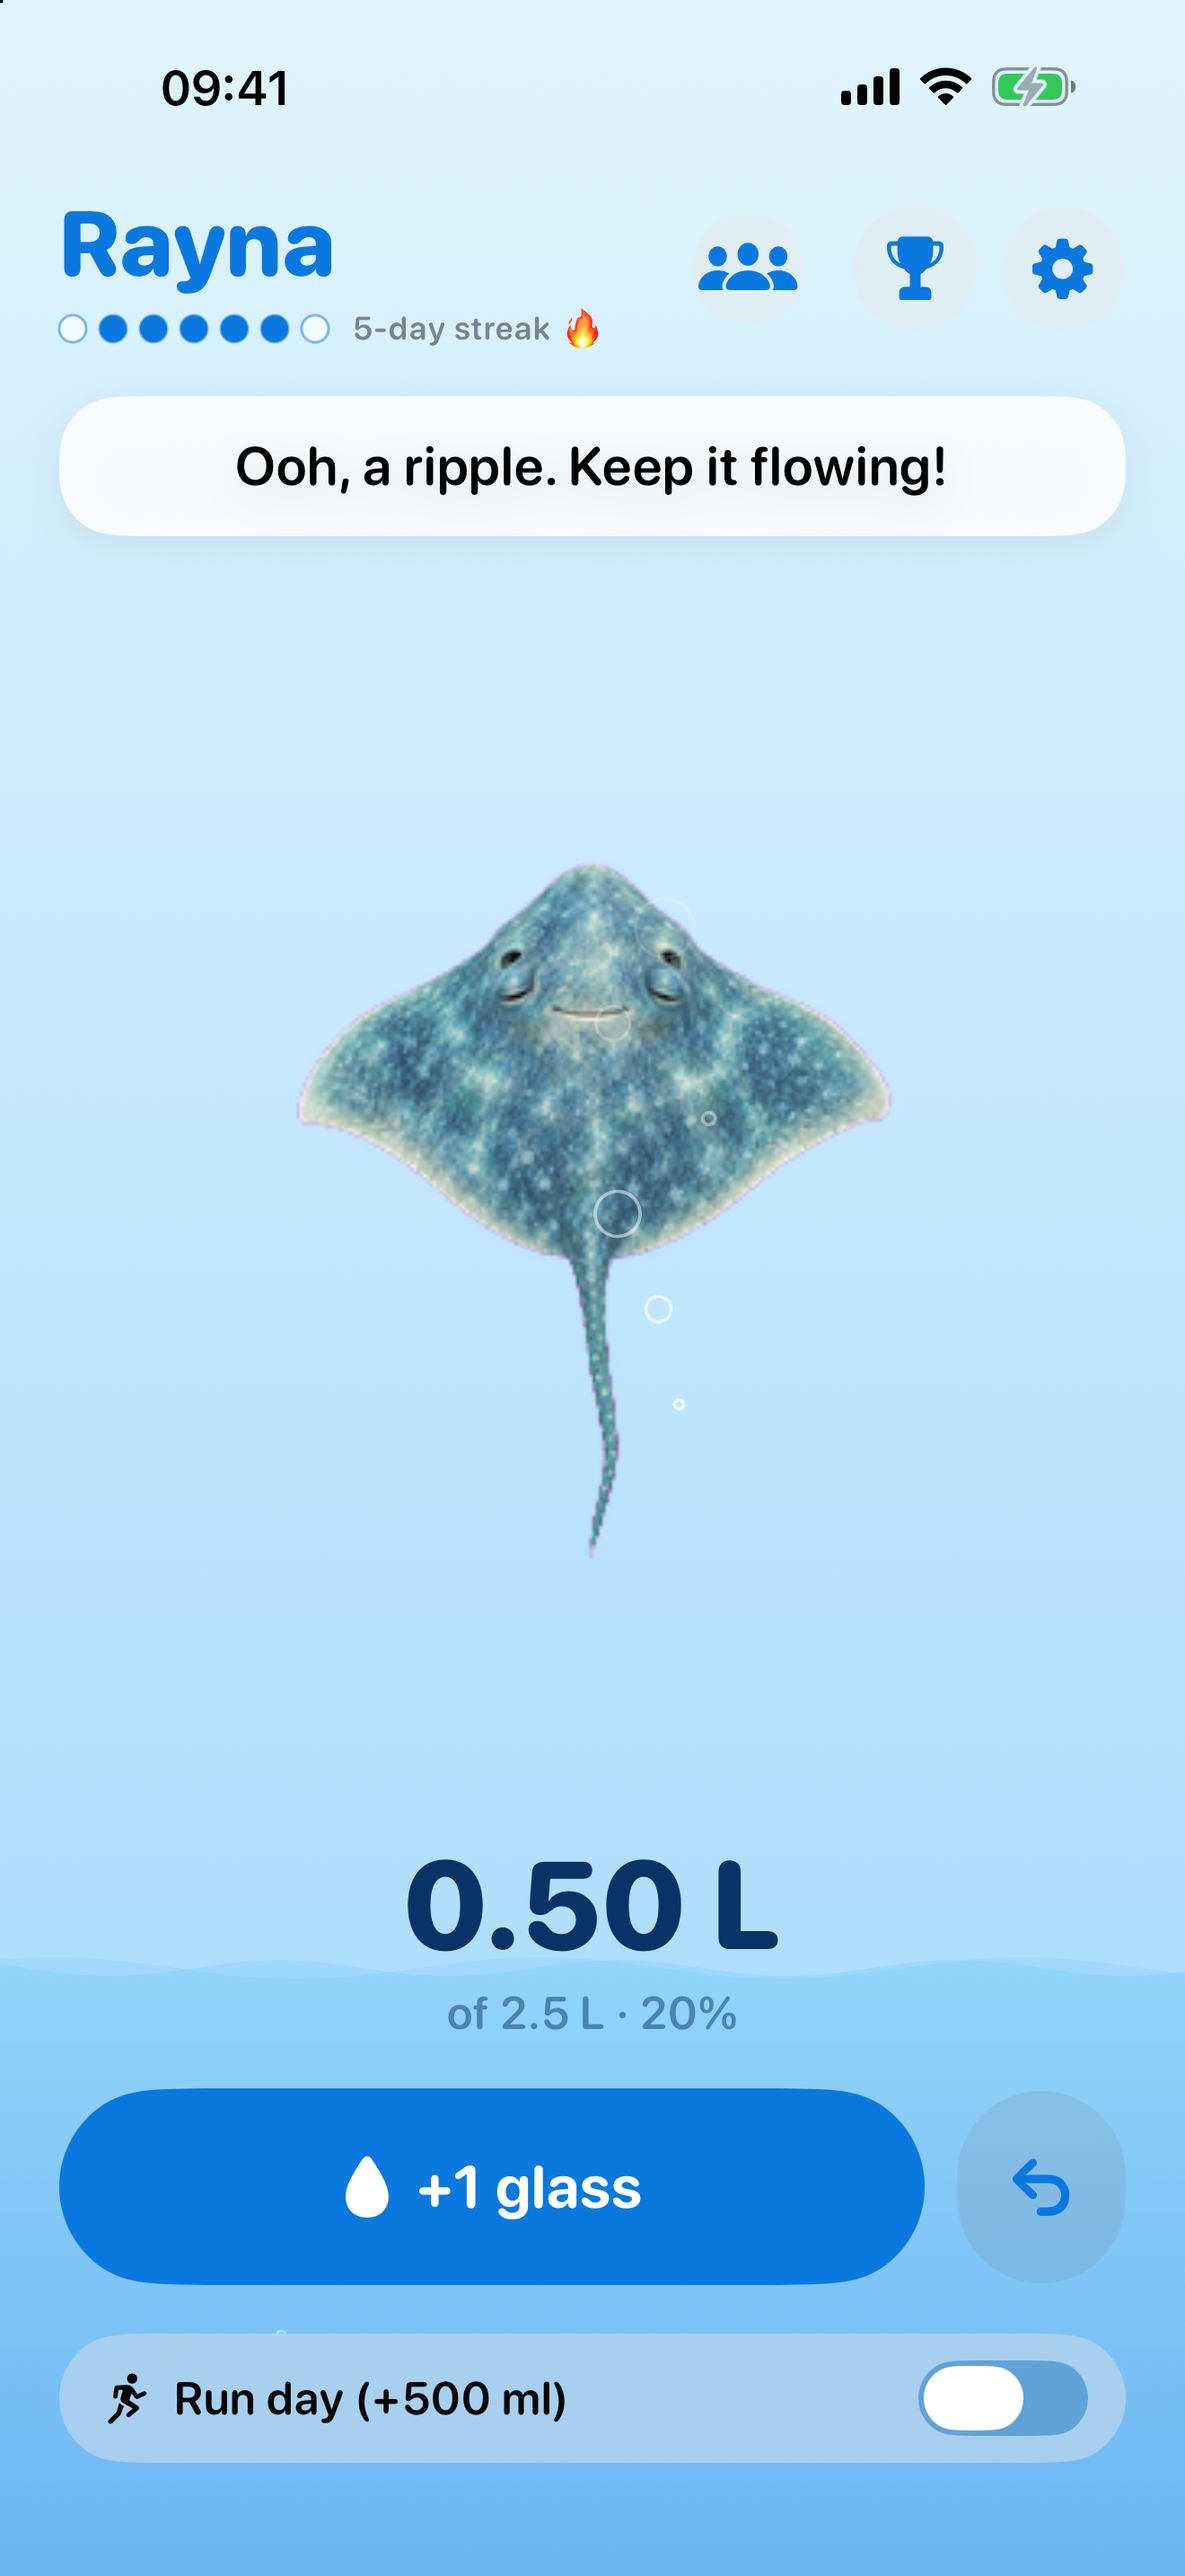
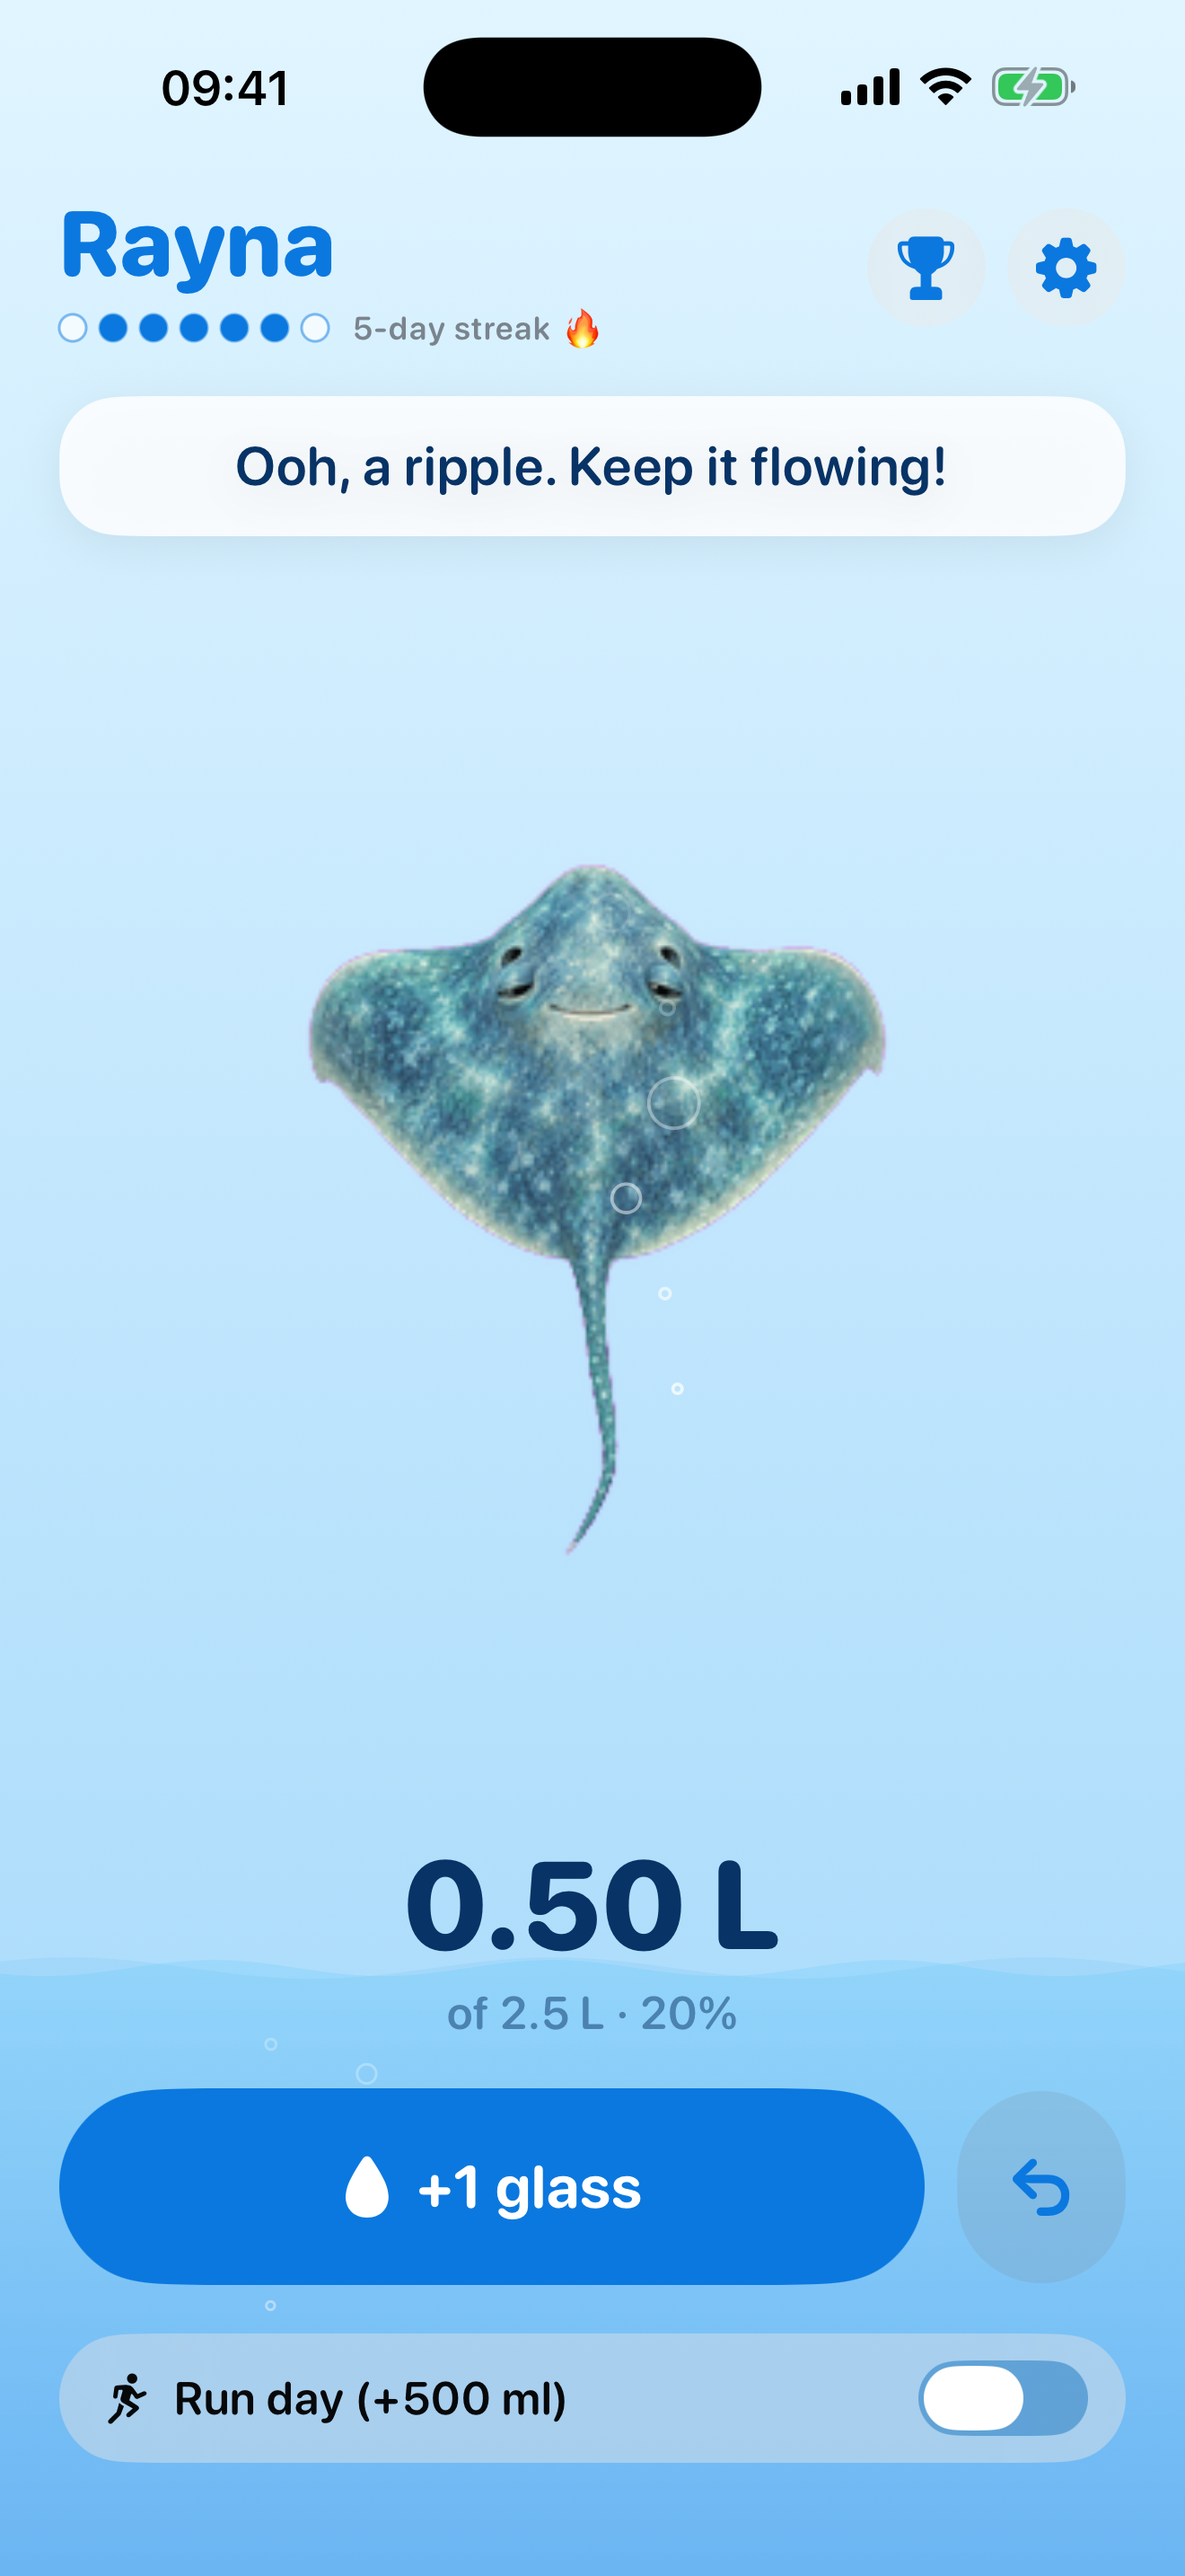
App Store screenshots from build 2 (6.9 + 6.3, PNG + flattened JPEG upload sets); fizzy-drink swap, pods in Settings

diff --git a/appstore/metadata.md b/appstore/metadata.md
@@ -79,14 +79,14 @@ Answer **None** to every content question (no violence, no mature themes, no gam
 `ITSAppUsesNonExemptEncryption = NO` is set in Info.plist, so there's no encryption question at upload.
 
 ## Screenshots
-`appstore/screenshots/6.9/` (1320×2868, iPhone 17 Pro Max) and `appstore/screenshots/6.7/` (1290×2796, iPhone 15 Plus):
+`appstore/screenshots/6.9/` (1320×2868, iPhone 17 Pro Max) and `appstore/screenshots/6.3/` (1206×2622, iPhone 17 Pro). Upload-ready flattened JPEGs: `appstore/upload-6.9/`, `appstore/upload-6.3/`:
 1. Over halfway, happy Rayna (60 %)
 2. Early in the day, droopy Rayna (20 %)
 3. Goal reached, 100 %
-4. Settings (goal, glass size, run-day Live Activity, reminders, swap-a-fizzy-drink, Apple Health)
-5. Rayna with unlocks (headband, medal, bubbles, baby ray) and the swap-a-fizzy-drink card
+4. Settings (Friends → Pods, goal, glass size, run-day Live Activity, reminders, fizzy-drink swap)
+5. Rayna with unlocks (headband, medal, bubbles, baby ray), the "Your pod" card and the fizzy-drink swap card
 6. Rayna's journey: weekly recap and the unlock collection
 7. Pod: shared tank with friends, nudges and pod streak
 
-Regenerate: `cd iOS && scripts/screenshots.sh <sim-udid>:6.9 <sim-udid>:6.7` (after a simulator build).
+Regenerate: `cd iOS && scripts/screenshots.sh <sim-udid>:6.9 <sim-udid>:6.3` (after a simulator build).
 iPad screenshots (13") are only needed if iPad stays enabled (`TARGETED_DEVICE_FAMILY = 1,2`). Otherwise set it to `1` for iPhone-only.
